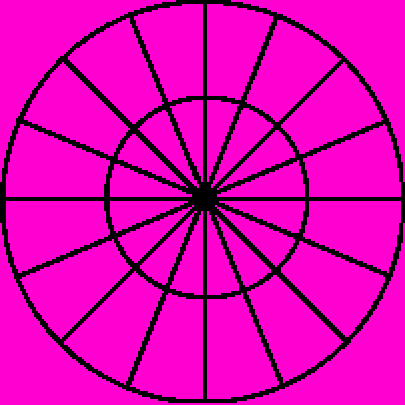
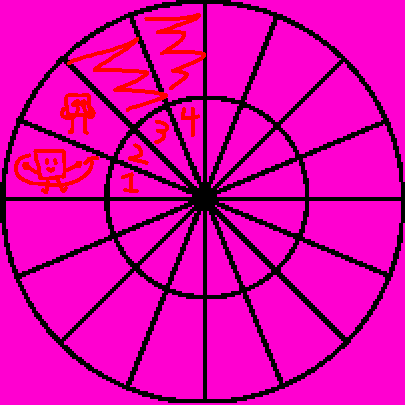
dialogue testing

diff --git a/main.py b/main.py
@@ -50,7 +50,7 @@ button_pressed = False
 level_id = 1
 cover = pygame.Surface((WIDTH,HEIGHT), pygame.SRCALPHA)
 cover.fill((0,0,0,100))
-version = "0.8.6"
+version = "0.8.7"
 volume = 1
 
 def resetvars():
@@ -113,6 +113,8 @@ class Tile(pygame.sprite.Sprite):
 		self.rect = self.image.get_rect()
 		self.rect.x, self.rect.y = x, y
 		self.type = type
+		if self.type == "interact":
+			self.coords = (x, y)
 
 
 	def draw(self, surface):
@@ -247,6 +249,14 @@ class TileMap():
 					else:
 						Tilegroup.add(Temptile)
 
+				elif tile == "12":
+					Temptile = Tile("bridge", x * self.tile_size, y * self.tile_size, self.spritesheet, "interact")
+					tiles.append(Temptile)
+					if self.filename == bg_filename or self.filename == front3_filename:
+						Tilegroup_nocol.add(Temptile)
+					else:
+						Tilegroup.add(Temptile)
+
 				x += 1
 			y += 1
 
@@ -256,7 +266,7 @@ class TileMap():
 # general functions for player
 
 def collide():
-	global collide_down, collide_up, collide_right, collide_left, playerx, playery, walk, layer, player_rect, action, win, playery, direction, map_below, map_below2, map_above, map_above2, map_above3, level_id, button_pressed, offsetX, offsetY, run, move
+	global collide_down, collide_up, collide_right, collide_left, playerx, playery, walk, layer, player_rect, action, win, playery, direction, map_below, map_below2, map_above, map_above2, map_above3, level_id, button_pressed, offsetX, offsetY, run, move, keypress2, interactions, dialoguecounter
 	pressed_keys = pygame.key.get_pressed()
 	collide_down = False
 	collide_up = False
@@ -271,8 +281,8 @@ def collide():
 			offsetY_top, offsetY_bottom = 16, 0
 			do_collision = True
 
-		if i.type == "ladder" or i.type == "button":
-			if i.rect.colliderect(pygame.Rect(player_rect.x, player_rect.y, 32, 34)):
+		if i.type == "ladder" or i.type == "button" or i.type == "interact":
+			if i.rect.colliderect(pygame.Rect(player_rect.x, player_rect.y, 32, 33)):
 				do_collision = False
 				if i.rect.bottom >= player_rect.top >= i.rect.top - 33 and i.rect.left + 34 >= player_rect.left >= i.rect.left and i.type == "ladder":
 					if i.rect.top - 17 <= player_rect.top <= i.rect.bottom:
@@ -295,6 +305,25 @@ def collide():
 					map_below2 = TileMap('levels/level'+level_num+'/level'+level_num+'_back2.csv', spritesheet)
 					map_above3 = TileMap('levels/level'+level_num+'/level'+level_num+'_front3.csv', spritesheet)
 
+				if i.type == "interact":
+					if keypress2 == False and pressed_keys[pygame.K_z]:
+						tempname = str(int(i.coords[0]/64))+"-"+str(int(i.coords[1]/64))
+						temptype = interactions[tempname]["type"]
+						if temptype == "dialogue":
+							print(dialoguecounter)
+							if dialoguecounter > len(interactions[tempname])-1:
+								dialoguecounter = 0
+							if dialoguecounter != len(interactions[tempname])-1:
+								print(interactions[tempname][str(dialoguecounter)])
+							dialoguecounter += 1
+
+						elif temptype == "cutscene":
+							print("not yet")
+					if pressed_keys[pygame.K_z]:
+						keypress2 = True
+					else:
+						keypress2 = False
+
 		# this is just any generic block collision
 		if ((layer == 1 or layer == -1) and i.type == "blank") or i.type == "water" or (i.type == "door" and button_pressed == False):
 			offsetY_top, offsetY_bottom = 0, 0
@@ -308,7 +337,8 @@ def collide():
 			offsetY_top, offsetY_bottom = 0, 16
 			do_collision = True
 
-		if i.type == "ladder" or i.type == "button" or i.type == "exit" or (layer != 1 and i.type == "blank") or ((layer == 1 or layer == -1) and i.type == "wall3") or (i.type == "wall1" and layer == 1):
+		#This has to be here or level 2 collision fails
+		if i.type == "ladder" or i.type == "button" or i.type == "exit" or (layer != 1 and i.type == "blank") or ((layer == 1 or layer == -1) and i.type == "wall3") or (i.type == "wall1" and layer == 1) or (i.type == "door" and button_pressed == True) or i.type == "interact":
 			do_collision = False
 
 		if do_collision:
@@ -407,16 +437,17 @@ def movep():
 	offsetY = playery
 
 def loadLevel(level_num):
-	global volume, spritesheet, map_below, map_above, map_below2, map_above2, map_above3, level_mus, bg, songname, levelname, topright_text, shadow
+	global volume, spritesheet, map_below, map_above, map_below2, map_above2, map_above3, level_mus, bg, songname, levelname, topright_text, shadow, interactions
 	level_num = str(level_num)
-	spritesheet = Spritesheet('levels/level'+level_num+'/spritesheet.png')
-	map_below = TileMap('levels/level'+level_num+'/level'+level_num+'_back.csv', spritesheet)
-	map_above = TileMap('levels/level'+level_num+'/level'+level_num+'_front.csv', spritesheet)
-	map_above2 = TileMap('levels/level'+level_num+'/level'+level_num+'_front2.csv', spritesheet)
-	map_below2 = TileMap('levels/level'+level_num+'/level'+level_num+'_back2.csv', spritesheet)
-	map_above3 = TileMap('levels/level'+level_num+'/level'+level_num+'_front3.csv', spritesheet)
-	bg = TileMap('levels/level'+level_num+'/level'+level_num+'_bg.csv', spritesheet)
-	with open("levels/level"+level_num+"/info.txt", "r") as f:
+	tempdir = "levels/level"+level_num+"/"
+	spritesheet = Spritesheet(tempdir+"spritesheet.png")
+	map_below = TileMap(tempdir+"level"+level_num+"_back.csv", spritesheet)
+	map_above = TileMap(tempdir+'level'+level_num+'_front.csv', spritesheet)
+	map_above2 = TileMap(tempdir+'level'+level_num+'_front2.csv', spritesheet)
+	map_below2 = TileMap(tempdir+'level'+level_num+'_back2.csv', spritesheet)
+	map_above3 = TileMap(tempdir+'level'+level_num+'_front3.csv', spritesheet)
+	bg = TileMap(tempdir+'level'+level_num+'_bg.csv', spritesheet)
+	with open(tempdir+"info.txt", "r") as f:
 		texty = f.read()
 		texty = texty.split("\n")
 		levelname = texty[0]
@@ -426,6 +457,10 @@ def loadLevel(level_num):
 			shadow = True
 		elif texty[3] == "0":
 			shadow = False
+	f.close()
+	with open(tempdir+'interact.json') as f:
+		interactions = json.load(f)
+	f.close()
 	level_mus = pygame.mixer.music.load("assets/music/level"+level_num+".mp3")
 	pygame.mixer.music.play(-1)
 	pygame.mixer.music.set_volume(0.1*volume)
@@ -433,6 +468,7 @@ def loadLevel(level_num):
 def player_img_load(image_path):
 	global player_img1
 	player_img1 = pygame.image.load("assets/player/"+image_path)
+	player_img1.set_colorkey((255, 0, 208))
 
 def winlvl(type):
 	global level_id, animY, layer, player_img1, run, restartable, topright_text, win, title, t0, offsetX, offsetY, titletype
@@ -513,6 +549,8 @@ def update():
 		screen.blit(cover, (0,0))
 		screen.blit(shadowcircle, pygame.Rect(WIDTH/2-720, HEIGHT/2-512, 0, 0))
 
+	emotes()
+
 	if ui_timer == True:
 		timer()
 
@@ -530,44 +568,68 @@ def update():
 	pygame.display.flip()
 
 def animate():
-	global direction, walksprite, player_img1, action, emote, animX, animY, playerx, playery
+	global direction, walksprite, player_img1, action, emote, animX, animY, playerx, playery, offsetX, offsetY, layer
 	if action == "walk":
 		if direction == 0 or direction == 2:
 			if walksprite == 0:
-				player_img1 = pygame.image.load("assets/player/idle/side.png")
+				player_img_load("idle/side.png")
 			else:
-				player_img1 = pygame.image.load("assets/player/walk/side"+str(walksprite)+".png")
+				player_img_load("walk/side"+str(walksprite)+".png")
 
 			if direction == 0:
 				player_img1 = pygame.transform.flip(player_img1, True, False)
 		if direction == 1:
 			if walksprite == 0:
-				player_img1 = pygame.image.load("assets/player/idle/up.png")
+				player_img_load("idle/up.png")
 			else:
-				player_img1 = pygame.image.load("assets/player/walk/up"+str(walksprite)+".png")
+				player_img_load("walk/up"+str(walksprite)+".png")
 		if direction == 3:
 			if walksprite == 0:
-				player_img1 = pygame.image.load("assets/player/idle/down.png")
+				player_img_load("idle/down.png")
 			else:
-				player_img1 = pygame.image.load("assets/player/walk/down"+str(walksprite)+".png")
+				player_img_load("walk/down"+str(walksprite)+".png")
 	elif action == "climb":
 		if walksprite == 0:
-			player_img1 = pygame.image.load("assets/player/climb/climb2.png")
+			player_img_load("climb/climb2.png")
 		else:
-			player_img1 = pygame.image.load("assets/player/climb/climb"+str(walksprite)+".png")
+			player_img_load("climb/climb"+str(walksprite)+".png")
 
 	if emote == 1:
-		player_img1 = pygame.image.load("assets/player/emote/why.png")
-	elif emote == 2:
-		player_img_temp = player_img1
-		player_img_temp.set_colorkey((255, 0, 208))
-		for i in range(300):
-			player_img_temp = pygame.transform.rotate(player_img_temp, 90*math.floor(i/100))
-			player_img = player_img_temp
+		player_img_load("anim/why")
+		for i in range(30):
 			update()
+	elif emote == 2:
+		player_img1.set_colorkey((255, 0, 208))
+		player_img_load("anim/wee.png")
+		tempcounter = 0
+		templayer = layer
+		layer = 1
+		for i in range(126):
+			animX = 100*math.sin(i/10)
+			if i/8 == math.floor(i/8):
+				tempcounter += 1
+
+			if tempcounter > 3:
+				tempcounter = 0
+
+			if tempcounter == 0:
+				player_img_load("idle/side.png")
+				player_img1 = pygame.transform.flip(player_img1, True, False)
+			if tempcounter == 1:
+				player_img_load("idle/up.png")
+			if tempcounter == 2:
+				player_img_load("idle/side.png")
+			if tempcounter == 3:
+				player_img_load("idle/down.png")
+
+			update()
+		layer = templayer
+		animX = 0
+
 
 	player_img1.set_colorkey((255, 0, 208))
 	player_img = player_img1
+
 
 def timer():
 	global ui_timer, t0, win, ui_timer2, minutes, seconds, ms
@@ -597,23 +659,28 @@ emotewheel = pygame.image.load("assets/hud/emotewheel.png")
 emotewheel.set_colorkey((255, 0, 208))
 
 def emotes():
-	global emotemenu, emotewheel, addwalk, emote
+	global emotemenu, emotewheel, emote, keypress
 	pressed_keys = pygame.key.get_pressed()
 
-	if pressed_keys[pygame.K_e]:
-		if emotemenu == False:
-			emotemenu = True
-		elif emotemenu == True:
+	if pressed_keys[pygame.K_e] and keypress == False:
+		if emotemenu == True:
 			emotemenu = False
+		elif emotemenu == False:
+			emotemenu = True
 
-	if pressed_keys[pygame.K_0] and addwalk == False:
-		emote = 1
-		emotemenu = False
-	elif pressed_keys[pygame.K_1] and addwalk == False:
-		emote = 2
-		emotemenu = False
 	if emotemenu == True:
 		screen.blit(emotewheel, (WIDTH-200, HEIGHT-200))
+		if pressed_keys[pygame.K_1]:
+			emote = 2
+			emotemenu = False
+		elif pressed_keys[pygame.K_2]:
+			emote = 1
+			emotemenu = False
+
+	if pressed_keys[pygame.K_e]:
+		keypress = True
+	else:
+		keypress = False
 
 def level_name():
 	global levelname
@@ -727,9 +794,9 @@ def titlescreen():
 			elif pressed_keys[pygame.K_RIGHT]:
 				volume += 0.1
 			if volume > 1:
-				volume = 1
-			if volume < 0:
 				volume = 0
+			if volume < 0:
+				volume = 1
 			volume = int(round(volume*10))/10
 		if pressed_keys[pygame.K_z]:
 			if titletype == "title":
@@ -932,8 +999,9 @@ offsetX, offsetY, xdir, ydir = 0, 256, 1, 1
 cursor = 0
 title_mus = pygame.mixer.music.load("assets/music/hotel1.mp3")
 pygame.mixer.music.play(-1)
-keypress = False
+keypress, keypress2 = False, False
 titletype, prev_title = "title", "title"
+dialoguecounter = 0
 
 while title:
 	for event in pygame.event.get():
@@ -970,8 +1038,6 @@ while True:
 		collide()
 		movep()
 
-		emotes()
+		update()
 
 		animate()
-
-		update()
